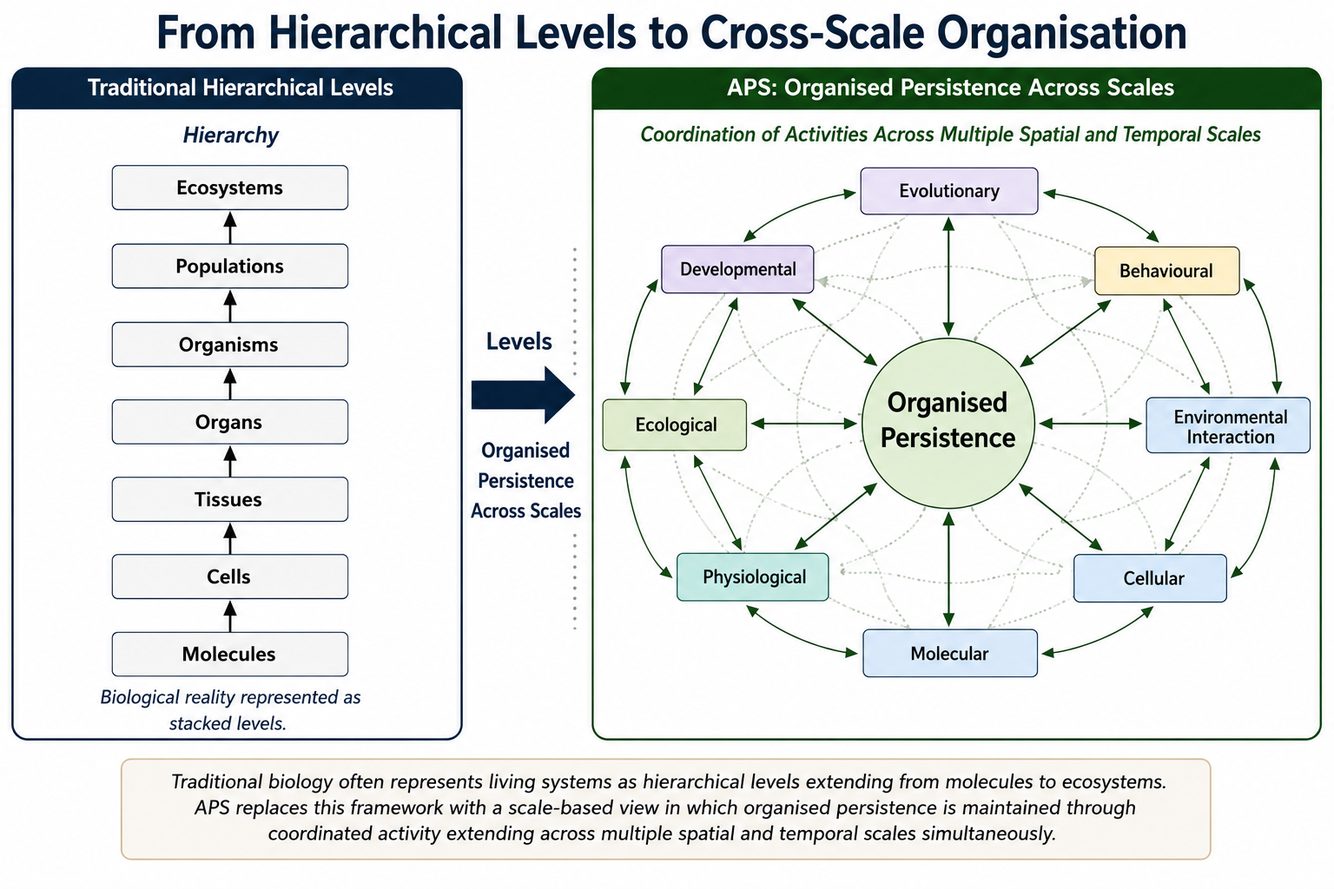
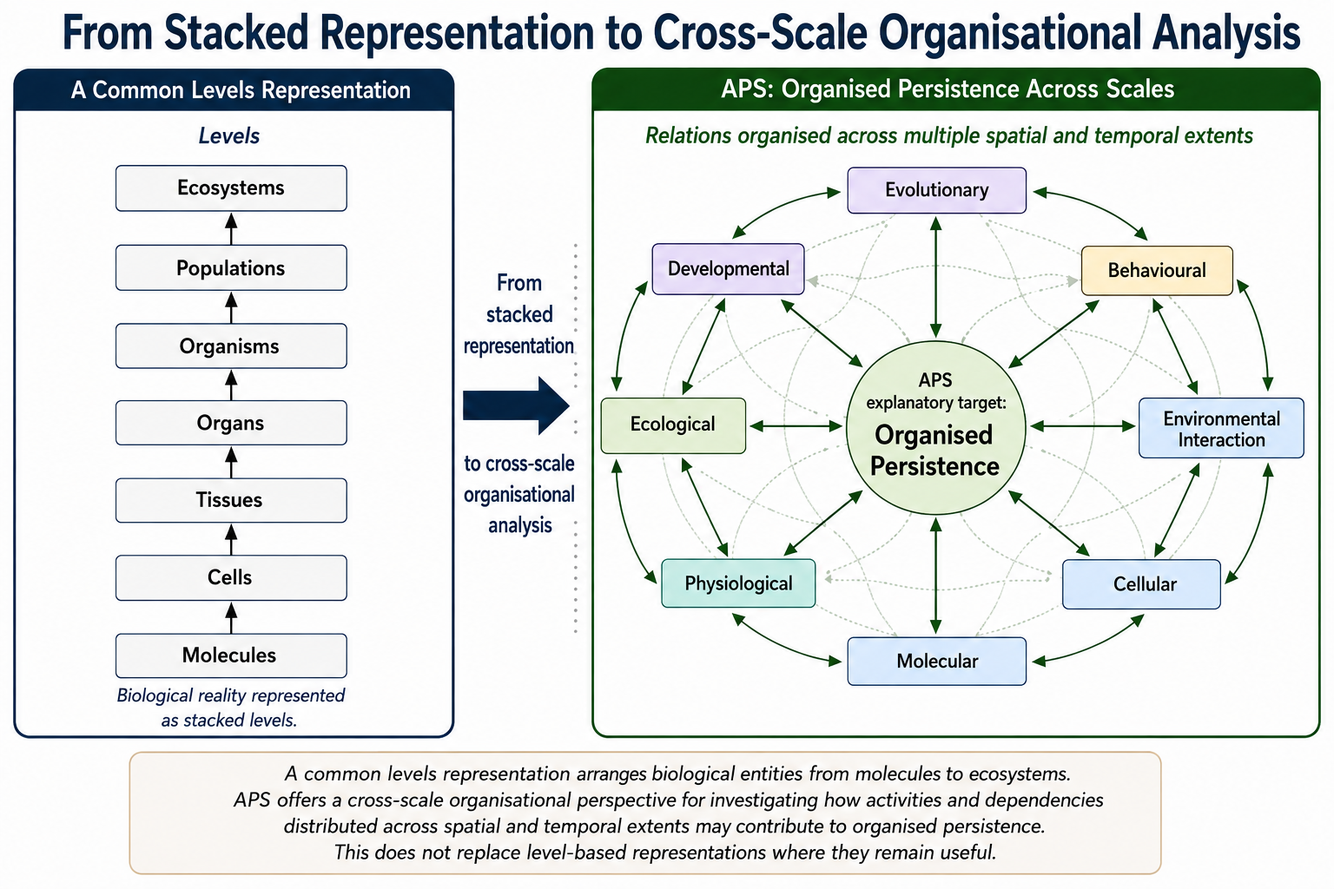
geometry

Changed region(s): [[0.0, 0.0, 1.0, 1.0], [0.8438, 0.9375, 0.875, 0.9688], [0.0938, 0.9375, 0.125, 0.9688]]

diff --git a/src/content/articles/the-explanatory-geometry-of-biology-ci.md b/src/content/articles/the-explanatory-geometry-of-biology-ci.md
@@ -7,19 +7,20 @@ type: article
 status: canonical
 canonical: true
 canonicalLockDate: 2026-06-16
-revised: 2026-07-28
+revised: 2026-08-18
 
 cluster: methodology-and-explanation
 role: core
 
 abstract: >
-  This article explains how APS organises biological explanation around
-  organised persistence as its explanatory target and agency, process,
-  and scale as its explanatory grammar. APS provides a framework for
-  understanding how diverse biological explanations become integrated
-  through organisational continuity analysis, explanatory adequacy,
-  perturbation, development, and multiscale organisation. The result is
-  a unified account of how biology explains living systems as
+  This article explains how APS organises its account of biological
+  explanation around organised persistence as an explanatory target and
+  agency, process, and scale as mutually constraining analytic projections.
+  Within APS, this architecture provides a way of relating diverse biological
+  explanations through organisational continuity analysis, explanatory
+  adequacy, perturbation, development, and multiscale organisation while
+  preserving their legitimate explanatory differences. The result is an
+  APS-specific account of how living systems can be understood as
   continuity-maintaining forms of viability-oriented organisation across
   continual transformation.
 
@@ -103,17 +104,15 @@ references:
 
 Biology contains many forms of explanation. Molecular biology explains biochemical organisation, physiology explains functional regulation, development explains transformation across time, ecology explains organism–environment relations, evolution explains historical change, and cognition research explains increasingly sophisticated forms of biological evaluation and control.
 
-These explanatory traditions have achieved extraordinary success. Yet their underlying relations often remain implicit. Different biological domains frequently emphasise different forms of causation, organisation, mechanism, function, adaptation, development, and explanation. As a result, biology can appear fragmented into partially independent explanatory enterprises despite sharing a common subject matter.
+These explanatory traditions have achieved extraordinary success. Their diversity is not itself a defect or evidence that biology lacks explanatory integration. Different biological domains legitimately emphasise different forms of causation, organisation, mechanism, function, adaptation, development, and explanation.
 
-APS addresses this problem by asking a different question.
+APS approaches this plurality by asking a further question.
 
-Rather than beginning with particular biological phenomena, APS asks how biological explanation itself is organised. What is the common explanatory structure that allows developmental, physiological, ecological, evolutionary, cognitive, and diagnostic explanations to remain recognisably biological despite addressing different aspects of living systems?
+Rather than replacing these explanatory practices or requiring them to share a single explanatory principle, APS asks how they can be related when living systems are investigated as viability-oriented organised persistence. What organisational relations become visible when developmental, physiological, ecological, evolutionary, cognitive, and diagnostic explanations are considered from this perspective?
 
-The answer proposed by APS is that biological explanation is organised around a common explanatory target and a common explanatory grammar.
+APS proposes organised persistence as its central explanatory target. Agency, process, and scale provide the mutually constraining analytic projections through which APS investigates that target.
 
-The explanatory target is organised persistence: the capacity of living systems to maintain continuity through continual transformation. The explanatory grammar consists of agency, process, and scale, which together provide the organisational dimensions through which organised persistence becomes intelligible.
-
-This article examines how that explanatory grammar organises biological explanation as a whole. Its concern is therefore not simply what biology explains, but how biological explanations become integrated into a coherent explanatory framework.
+This article examines the resulting explanatory geometry. Its concern is therefore not to specify the universal structure of biological explanation, but to explain how APS relates diverse biological explanations within its own account of living organisation.
 
 ## Orientation Pathway
 
@@ -127,29 +126,27 @@ Readers new to APS will usually benefit from proceeding through the following se
 
 ## Explanatory Target and Explanatory Grammar
 
-Recent APS work distinguishes between two questions that are often conflated.
+APS distinguishes between two questions that are often conflated.
 
-The first concerns the phenomenon that biology seeks to explain. The second concerns the organisational structure through which such explanation becomes possible.
+The first concerns the explanatory target APS brings into view. The second concerns the analytic organisation through which APS investigates that target.
 
-APS argues that organised persistence constitutes the central explanatory target of biology. Living systems persist despite continual transformation. Cells divide, molecules are replaced, developmental trajectories unfold, behaviours adapt, and ecological relations change. Yet living systems maintain continuity across these transformations. Explaining how such continuity remains possible is the central task of biological explanation.
+APS proposes organised persistence as a central explanatory target for its account of living systems. Living systems persist despite continual transformation. Cells divide, molecules are replaced, developmental trajectories unfold, behaviours adapt, and ecological relations change. Yet living systems maintain organised continuity across these transformations. APS asks how such continuity is actively maintained and re-established.
 
-However, identifying the target of explanation does not by itself explain how explanation proceeds. A second question therefore arises: what organisational dimensions must biological explanations capture if organised persistence is to become intelligible?
+Identifying this target does not determine how all biological explanation must proceed. APS instead develops its own explanatory architecture through agency, process, and scale.
 
-APS answers this question through the explanatory grammar of agency, process, and scale.
+Agency concerns what living systems do as viability-oriented organisational activity. Process concerns how continuity is maintained despite change. Scale concerns where persistence is organised across spatial and temporal extents.
 
-Agency concerns the viability-oriented activity through which living systems participate in maintaining the conditions of their own persistence. Process concerns the ongoing transformations through which continuity is enacted across time. Scale concerns the organisational relations through which continuity is distributed across multiple spatial and temporal domains.
+These are not independent causes, entities, or levels. They are analytic projections of one viability-oriented, constraint-closed organisation. Together they provide the explanatory architecture through which APS investigates organised persistence.
 
-These dimensions are not independent explanatory perspectives. Agency is always enacted through processes unfolding across time. Processes always occur across scales. Scale becomes biologically meaningful because viability-oriented activity remains coordinated across multiple organisational domains. Together they provide the explanatory grammar through which organised persistence can be understood.
-
-APS therefore distinguishes between explanatory target and explanatory grammar. Organised persistence identifies what biology explains. Agency, process, and scale identify how biological explanation becomes possible.
+APS therefore distinguishes its explanatory target from its analytic architecture. Organised persistence identifies what APS seeks to understand; agency, process, and scale identify complementary perspectives through which APS investigates that organisation. Other biological explanations may remain legitimate and complete for their own explananda without being translated into APS terms.
 
 ## Organisational Continuity Analysis
 
-APS interprets biological explanation as a form of organisational continuity analysis.
+APS uses organisational continuity analysis to investigate living systems from the perspective of organised persistence.
 
-To explain a living system is not merely to identify mechanisms, causes, structures, or outcomes. It is to understand how continuity is maintained despite continual transformation. Biological explanation therefore concerns the organisational relations through which viability is preserved, perturbations are managed, developmental change is coordinated, ecological interactions remain sustainable, and persistence continues across time.
+Such analysis asks not only which mechanisms, causes, structures, or outcomes are involved, but how relevant organisational relations contribute to continuity through transformation. It examines how viability is maintained, perturbations are managed, developmental change is coordinated, organism–environment relations are organised, and persistence continues through time.
 
-This perspective shifts attention away from static entities toward the organisational conditions that allow continuity to occur. Mechanisms remain important, but their significance derives from their contribution to persistence. Functions remain important, but their meaning derives from their contribution to viability. Development, ecology, physiology, evolution, cognition, repair, resilience, and diagnosis all become intelligible insofar as they illuminate how continuity is maintained under changing conditions.
+This does not imply that every adequate biological explanation must answer an organised-persistence question. Rather, organisational continuity analysis specifies the additional question APS brings to biological phenomena: how do the processes under investigation participate in maintaining, reorganising, or transforming viable biological organisation?
 
 Explanation therefore becomes an investigation into the organisational conditions through which living systems remain viable through time.
 
@@ -164,15 +161,19 @@ Explanation therefore becomes an investigation into the organisational condition
 
   <p class="aps-diagram-caption">
     <strong>APS Explanatory Geometry.</strong>
-    Organised persistence provides the explanatory target of biology. Agency, process, and scale provide the explanatory grammar through which persistence becomes intelligible. Organisational continuity analysis and explanatory adequacy connect these dimensions into a unified account of biological understanding.
+    Organised persistence provides the explanatory target adopted within APS.
+    Agency, process, and scale provide complementary analytic projections
+    through which that persistence is investigated. Organisational continuity
+    analysis relates these perspectives within the APS account while preserving
+    the legitimate plurality of biological explanation.
   </p>
 </div>
 
-APS refers to an explanatory geometry because different biological explanations foreground different organisational relations depending upon the questions being asked, the methods employed, the temporal scales examined, and the organisational conditions under investigation.
+APS refers to an explanatory geometry because different biological explanations foreground different relations depending upon the questions being asked, methods employed, temporal extents examined, and organisational conditions under investigation.
 
-Physiological explanations may foreground real-time regulation. Developmental explanations may foreground transformation across time. Evolutionary explanations may foreground historical change. Ecological explanations may foreground organism–environment relations. Yet these explanatory orientations remain connected because they illuminate different aspects of the same underlying phenomenon: organised persistence.
+Physiological explanations may foreground real-time regulation. Developmental explanations may foreground transformation through time. Evolutionary explanations may foreground historical change. Ecological explanations may foreground organism–environment relations. These explanatory orientations need not be reduced to one another. APS compares them by asking how, where relevant, their explananda bear on the organisation and transformation of living persistence.
 
-Biological explanation is therefore neither a collection of disconnected explanatory strategies nor a hierarchy of isolated explanatory levels. It is a structured organisation of explanatory relations through which living systems become intelligible as continuity-maintaining forms of viability-oriented organisation.
+The resulting geometry is therefore an APS organisation of explanatory relations, not a claim that biological explanation possesses a single compulsory grammar.
 
 [[box:the-organisational-grammar-of-aps]]
 
@@ -217,7 +218,7 @@ APS therefore distinguishes explanatory grammar from descriptive vocabulary.
 
 Biological concepts do not become explanatorily meaningful simply because they are widely used. Their explanatory significance depends upon the organisational role they play within the continuity-maintaining activity of living systems.
 
-Concepts such as function, regulation, adaptation, information, semiosis, cognition, evaluation, resilience, and repair acquire explanatory meaning because they illuminate different aspects of organised persistence. They become intelligible not as isolated descriptors but as elements within a broader explanatory grammar.
+Within APS, concepts such as function, regulation, adaptation, information, semiosis, cognition, evaluation, resilience, and repair acquire a more specific organisational interpretation through their relation to organised persistence. This does not exhaust the explanatory meanings those concepts may possess in other biological frameworks.
 
 For example, function concerns contributions to viability. Evaluation concerns the modulation of activity relative to viability-relevant conditions. Semiosis concerns the organisation of biologically meaningful difference. Cognition emerges when evaluative organisation becomes sufficiently integrated and temporally extended that present activity is regulated relative to non-immediate conditions.
 
@@ -225,7 +226,7 @@ APS therefore does not merely organise biological concepts. It clarifies the org
 
 [[box:aps-box-what-is-explanatory-grammar]]
 
-Concepts do not function as independent explanatory foundations. Their meaning derives from their place within the broader organisation of living systems and their contribution to explaining organised persistence.
+Within APS, these concepts do not function as independent explanatory foundations. Their APS interpretation derives from their place within the organisation of living systems and their contribution to explaining organised persistence.
 
 ## Explanatory Direction
 
@@ -233,13 +234,13 @@ APS also clarifies explanatory direction within biology.
 
 Many contemporary approaches begin with concepts derived from highly specialised forms of cognition and then use those concepts to interpret life more generally. Representation, computation, information processing, inference, intelligence, and decision-making are frequently treated as explanatory starting points from which biological organisation is understood.
 
-APS reverses this orientation.
+APS adopts a different explanatory priority.
 
 Rather than interpreting life through concepts derived from advanced cognition, APS begins with organised biological activity itself. Living systems already regulate continuity, evaluate changing conditions, coordinate activity, and preserve viability. Cognition is then understood as a specialised organisational development emerging within these more fundamental biological processes.
 
 Human cognition therefore becomes intelligible as a highly elaborated biological achievement rather than as the explanatory foundation through which biology must be interpreted.
 
-This reversal of explanatory direction has significant consequences. It allows cognition to remain biologically grounded while avoiding the tendency to project highly specialised cognitive concepts onto all forms of living organisation. Life explains cognition before cognition explains life.
+This reversal of explanatory direction has significant consequences. It allows cognition to remain biologically grounded while avoiding the tendency to project highly specialised cognitive concepts onto all forms of living organisation. Within APS, life provides the organisational basis for explaining cognition rather than cognition providing the explanatory basis for life.
 
 [[box:why-aps-replaces-placeholder-concepts]]
 
@@ -255,7 +256,7 @@ What becomes explanatorily central depends upon the question being asked, the me
 
 Genes, organisms, developmental systems, populations, ecological communities, and evolutionary lineages are not rival ontological foundations. They are different explanatory orientations through which organised persistence can be investigated.
 
-Many apparent disputes over explanatory priority therefore reflect shifts in explanatory geometry rather than genuine metaphysical conflict. APS allows biological explanation to remain plural while preserving theoretical coherence.
+Many apparent disputes over explanatory priority therefore reflect shifts in explanatory geometry rather than genuine metaphysical conflict. APS preserves this explanatory plurality while offering an organisationally coherent interpretation of relations among explanations where such comparison is warranted.
 
 [[box:explanatory-priority-is-not-ontological-priority]]
 
@@ -279,7 +280,7 @@ Cognition therefore expands the explanatory reach of biological organisation wit
 
 ## Constraint and Explanatory Coherence
 
-Many theoretical frameworks become increasingly permissive as additional concepts are introduced. New concepts expand what can be said, but often weaken the coherence of the overall explanatory structure. As a result, conceptual proliferation can generate explanatory flexibility at the expense of explanatory integration.
+An explanatory framework can become increasingly permissive as additional concepts are introduced: conceptual expansion may increase flexibility while weakening constraints on how those concepts relate. APS addresses this risk by requiring its central concepts to remain mutually constraining.
 
 APS operates differently.
 
@@ -293,68 +294,51 @@ Explanatory coherence therefore depends less upon conceptual proliferation than 
 
 ## Making Explanation Empirically Tractable
 
-APS is not intended as a purely conceptual framework. By making its explanatory structure explicit, it also strengthens the empirical tractability of biological explanation.
+APS is not intended as a purely conceptual framework. Its claims about organised persistence must remain open to empirical and comparative assessment.
 
-If organised persistence is the explanatory target of biology, and if agency, process, and scale constitute its explanatory grammar, then explanatory claims become open to empirical evaluation. Biological explanations can be assessed according to whether they successfully identify the organisational relations through which continuity is maintained, viability is preserved, and persistence remains possible.
+Where an APS explanation invokes organised persistence, agency, process, or scale, it should identify the material and organisational relations through which continuity is claimed to be maintained, transformed, repaired, or lost. Those claims can then be assessed against appropriate biological evidence.
 
-This shifts attention away from isolated component analysis toward the organisation of relations that sustain living systems across time. Mechanisms remain important, but they are evaluated according to their contribution to persistence. Functions remain important, but they are evaluated according to their contribution to viability. Perturbations become important because they reveal how organisational relations respond when continuity is challenged.
+This does not make Agency–Process–Scale a neutral test of every biological explanation. Existing explanations may be adequate for their own explananda without adopting APS. The relevant further question is whether applying the APS perspective reveals an additional, evidentially supported explanatory relation rather than merely redescribing what is already known.
 
-Constraint closure occupies a particularly important position within this framework. Living systems remain viable because the processes they enact contribute to maintaining the constraints that enable those very processes to occur. Persistence therefore depends not upon static structures but upon the continual regeneration of organisational conditions.
-
-<div class="aps-diagram">
-  <a href="/assets/diagrams/constraint-closure-living-systems.svg" target="_blank" rel="noopener">
-    <img
-      src="/assets/diagrams/constraint-closure-living-systems.svg"
-      alt="Constraint closure in living systems as reciprocal maintenance between processes and constraints"
-      loading="lazy"
-    />
-  </a>
-
-  <p class="aps-diagram-caption">
-    <strong>Constraint Closure in Living Systems.</strong>
-    Constraint closure describes the reciprocal organisation through which living processes maintain the constraints enabling their continued activity and continuity across time.
-  </p>
-</div>
+Constraint closure occupies a particularly important position within this framework. It describes the reciprocal organisation through which living processes maintain the constraints enabling their continued activity and continuity across time.Living systems remain viable because the processes they enact contribute to maintaining the constraints that enable those very processes to occur. Persistence therefore depends not upon static structures but upon the continual regeneration of organisational conditions.
 
 This orientation becomes especially valuable when investigating borderline systems, protocells, synthetic organisms, artificial life, and other non-standard forms of biological organisation. In such cases, the central explanatory question is not merely what components are present, but how continuity-producing organisation is established, stabilised, regenerated, repaired, and maintained.
 
 ## Explanatory Adequacy
 
-If organised persistence is the target of biological explanation, a further question follows: what makes a biological explanation adequate?
+Organised persistence also raises an evaluative question internal to APS: what makes an APS explanation adequate?
 
-APS argues that explanatory adequacy cannot be reduced to predictive success, causal identification, mechanistic detail, or descriptive accuracy alone. Each of these contributes important explanatory resources, but none by itself determines whether an explanation successfully captures the organisation of a living system.
+APS does not equate its own explanatory adequacy with predictive success, causal identification, mechanistic detail, or descriptive accuracy alone. These remain legitimate and often sufficient achievements within biological inquiry. The additional APS question concerns whether an explanation intended to address organised persistence identifies the organisational relations relevant to that persistence.
 
-Biological adequacy concerns the extent to which an explanation illuminates the organisational conditions that make persistence possible.
+For such an explanation, adequacy concerns how clearly and evidentially it identifies the maintenance or transformation of viability-oriented organisation: how continuity is maintained, how perturbations are managed, how relevant processes are coordinated across spatial and temporal extents, and how persistence is sustained or lost.
 
-An explanation becomes biologically adequate when it clarifies how viability is maintained, how continuity is preserved, how perturbations are managed, how organisational relations remain coordinated across scales, and how persistence continues despite continual transformation. Explanations that omit these features may still be useful, but they remain incomplete from a biological perspective.
+This is an APS-relative criterion, not a universal necessary-and-sufficient test of biological explanation. An explanation directed toward another explanandum may be scientifically adequate without addressing organised persistence at all.
 
-APS therefore evaluates explanations relative to organised persistence itself. The central question is not simply whether an explanation identifies causes, but whether it reveals how those causes participate in the maintenance, repair, adaptation, and continuation of living organisation.
+The further methodological burden is comparative. Where APS claims explanatory gain, it must show that its organisational analysis contributes something not already supplied by the established explanation. If it does not, the appropriate result may be redundancy or null additional gain.
 
-Explanatory adequacy thus functions as the evaluative counterpart of explanatory grammar. Agency, process, and scale provide the organisational dimensions through which explanation proceeds. Adequacy concerns how successfully those dimensions are integrated into a coherent account of persistence.
+## Relating Biological Domains Within APS
 
-## Unifying Biological Domains
+APS can apply its organisational perspective across multiple biological domains without reducing their explanatory differences to a single mechanism, privileged scale, or universal explanatory principle.
 
-Because the same explanatory grammar applies across biological contexts, APS provides a unifying structure for biology without reducing biological diversity to a single mechanism, privileged scale, or universal explanatory level.
+Physiology may investigate real-time regulation; development, transformation across an individual lifetime; evolution, historical transformation across generations; ecology, organism–environment relations; cognition, temporally extended organisation of biological significance; and diagnosis, disruption, repair, recovery, or failure.
 
-Physiology explains how organised activity maintains viability in real time. Development explains how continuity is preserved and reorganised across transformation. Evolution explains how organised persistence changes across generations. Ecology explains how continuity is distributed across organism–environment relations. Cognition explains how evaluative organisation becomes increasingly integrated and temporally extended. Diagnosis explains how continuity destabilises, reorganises, recovers, repairs, or fails.
+These domains need not share one explanatory principle to be scientifically coherent. They address different explananda using different evidential and methodological resources.
 
-These domains differ because they foreground different organisational relations, not because they operate according to different explanatory principles.
+APS relates them more selectively. Where their questions bear on living organisation, APS asks how their findings contribute to understanding organised persistence across different spatial and temporal extents. The resulting coherence belongs to the APS interpretation of their relations, not to a claim that biology itself is governed by one explanatory grammar.
 
-Each investigates organised persistence under different conditions, across different timescales, and through different forms of organisation. Together they constitute complementary expressions of a common explanatory grammar.
-
-APS therefore allows explanatory pluralism without explanatory fragmentation. Diverse biological disciplines remain unified because they illuminate different dimensions of the same underlying phenomenon.
+APS therefore combines explanatory plurality with an organisational perspective through which selected relations among biological domains can be compared.
 
 [[box:failure-reveals-organisation]]
 
 ## Explanation and Biological Intelligibility
 
-The explanatory geometry of biology emerges from the organisational structure of living systems themselves.
+The explanatory geometry developed here belongs to APS's interpretation of living organisation.
 
-APS therefore treats biological explanation as possessing analysable organisation rather than as a collection of unrelated explanatory practices. Different explanatory domains remain connected because they are coordinated through shared relations of agency, process, scale, viability, persistence, perturbation, continuity, development, repair, resilience, and temporal organisation.
+APS treats biological explanation as analysable without treating its many explanatory practices as instances of one universal grammar. Different domains may nevertheless be compared where their explananda intersect with questions of agency, process, scale, viability, persistence, perturbation, development, repair, resilience, or temporal organisation.
 
-The explanatory target of biology is organised persistence. The explanatory grammar of biology consists of agency, process, and scale. Organisational continuity analysis provides the mode through which persistence becomes intelligible, while explanatory adequacy evaluates how successfully biological explanations illuminate the conditions that make persistence possible.
+Within APS, organised persistence provides the explanatory target; agency, process, and scale provide complementary analytic projections; organisational continuity analysis asks how persistence is maintained or transformed; and APS-relative explanatory adequacy asks whether those organisational claims are evidentially supported and add explanatory value.
 
-Biological understanding therefore emerges not from any single explanatory perspective but from the coordinated integration of explanatory relations across multiple organisational domains.
+Biological understanding itself remains plural. APS contributes one organised perspective within that plurality and remains responsible for demonstrating when that perspective provides additional explanatory gain.
 
 <div class="aps-diagram">
   <a href="/assets/diagrams/conceptual-hierarchy.png" target="_blank" rel="noopener">
@@ -383,12 +367,12 @@ The broader philosophical implications of this explanatory structure are develop
 
 ## Conclusion
 
-Biological explanation seeks to understand how living systems remain possible through time.
+Living systems persist through continual transformation. APS takes this organised persistence as a central explanatory target and asks how viability-oriented organisation is maintained, reorganised, and transformed through time.
 
-APS argues that the central explanatory target of biology is organised persistence: the capacity of living systems to maintain continuity despite continual transformation. Understanding this phenomenon requires more than identifying causes, mechanisms, structures, or outcomes. It requires understanding the organisational relations through which viability is preserved, perturbations are managed, continuity is coordinated, and persistence is sustained.
+Agency, process, and scale provide the analytic architecture through which APS investigates this problem. Agency concerns what living systems do; process concerns how continuity is maintained despite change; scale concerns where persistence is organised across spatial and temporal extents. They are analytic projections of one viability-oriented, constraint-closed organisation rather than independent causes, components, or levels.
 
-APS provides the explanatory grammar through which organised persistence becomes intelligible. Agency identifies the viability-oriented activity of living systems. Process identifies the transformations through which continuity unfolds. Scale identifies the organisational domains across which continuity is distributed and coordinated. Together they provide the organisational dimensions through which biological explanation proceeds.
+The explanatory geometry of APS concerns the relations among these perspectives and the biological explanations with which they interact. Physiology, development, evolution, ecology, cognition, diagnosis, repair, resilience, and regulation retain their own explananda, methods, evidence, and explanatory strengths. APS does not require them to become instances of a single biological grammar.
 
-The explanatory geometry of biology therefore concerns the organisation of explanatory relations themselves. Different biological disciplines do not compete because they explain different aspects of a common phenomenon. Physiology, development, evolution, ecology, cognition, diagnosis, repair, resilience, and regulation all illuminate different dimensions of organised persistence.
+Instead, APS offers an organisational perspective from which their contributions to organised persistence can be compared where such comparison is warranted. Its value therefore depends not upon unifying biology by stipulation, but upon demonstrating when this perspective adds explanatory clarity or biological insight beyond what established explanations already provide.
 
-By distinguishing explanatory target from explanatory grammar, and by connecting both to explanatory adequacy, APS provides a unified account of how biological explanation is organised. Biology becomes intelligible not as a collection of disconnected explanatory practices, but as a coordinated investigation into the conditions through which living systems maintain continuity through change.
+Biological explanation remains plural. APS enters that plurality as a substantive account of living organisation whose explanatory contribution must itself remain open to comparative assessment.

diff --git a/src/content/articles/what-is-biology-trying-to-explain.md b/src/content/articles/what-is-biology-trying-to-explain.md
@@ -5,7 +5,7 @@ slug: what-is-biology-trying-to-explain
 type: article
 status: draft
 canonical: false
-revised: 2026-08-13
+revised: 2026-08-18
 cluster: conceptual-foundations
 role: synthesis
 
@@ -129,11 +129,11 @@ This gives the opening question a more focused form. Instead of asking which bio
 
 ## The APS Proposal
 
-APS begins with a simple proposal: biology’s different explanations can be compared by asking what each contributes to understanding organised persistence.
+APS begins with a simple proposal: one productive way of comparing biological explanations is to ask what each contributes to understanding organised persistence.
 
 This does not mean that every biological discipline is secretly explaining the same thing. Genetics, physiology, development, evolution, ecology, and other fields address distinct questions and phenomena. APS does not reduce their explanations to one theory or judge them by a single method. It asks how their different achievements clarify the organisation through which living systems persist.
 
-APS is therefore a **comparative explanatory methodology**. In simpler terms, it is a way of comparing biological explanations while preserving what each explains especially well.
+APS therefore combines a substantive account of living organisation with a comparative explanatory approach. Its comparisons ask what different biological explanations contribute to understanding organised persistence while preserving what each explains especially well.
 
 For any biological approach, APS begins with three questions:
 
@@ -231,7 +231,7 @@ APS also asks:
 
 This question does not imply that an ecosystem is itself a biological agent. It asks how environmental relationships become materially involved in the persistence of organisms and other living systems.
 
-These examples show what APS adds. It does not repeat each explanation in new vocabulary, and it does not claim that organised persistence supplies what existing biology has failed to discover. Instead, it provides a common point of comparison.
+These examples show where APS seeks explanatory gain. It does not repeat each explanation in new vocabulary, and it does not claim that organised persistence supplies what existing biology has failed to discover. Instead, it provides a common point of comparison.
 
 That comparison can reveal several things:
 
@@ -262,5 +262,7 @@ Readers wishing to continue can follow three immediate paths:
 - **The Core Structure of APS** develops the relationship among Agency, Process, and Scale.
 
 These articles lead into the wider APS programme, including evolution, development, cognition, individuality, ecology, and biological explanation. Each extends the enquiry begun here while addressing a more specific domain or problem.
+
+Readers interested in the wider scientific and methodological setting of this proposal can also follow the APS-THEORY research programme. Its three studies examine the historical identity of theoretical biology, the functional boundary between theoretical biology and philosophy of biology, and a neutral method for comparing dependency claims in biological explanation. Together, they provide an independent test of the explanatory setting within which APS makes its own proposals.
 
 APS therefore proposes organised persistence not as biology’s final or exclusive explanation, but as a comparative target through which the distinctive achievements and limits of biological explanations can be made clearer and more scientifically intelligible.
